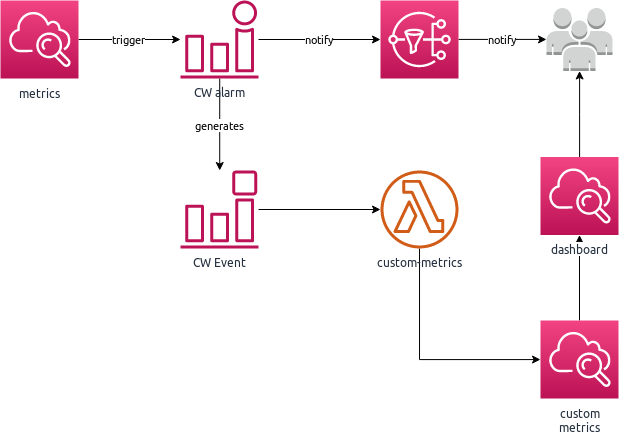
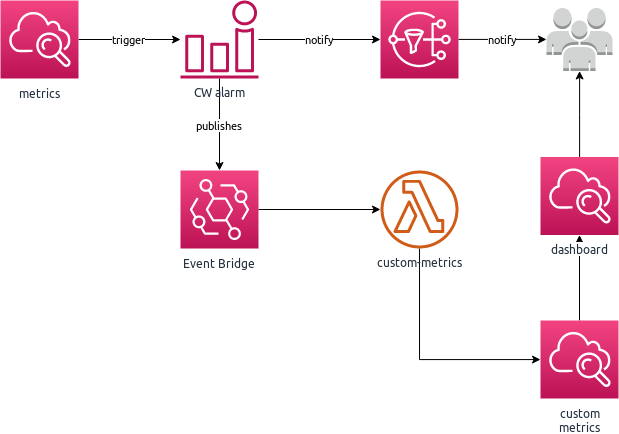
update documentation

Changed region(s): [[0.2763, 0.3295, 0.4297, 0.5691], [0.2763, 0.5991, 0.4297, 0.629], [0.3069, 0.2396, 0.399, 0.2995]]

diff --git a/README.md b/README.md
@@ -21,7 +21,7 @@ Another important metric is MTTI (Mean Time To Identification).  Depending on yo
 
 ![](./doc/img/failure-metric-architecture.png)
 
-This project uses notification actions from Cloud Watch Alarms, to trigger lambda functions to calculate, and publish, custom CloudWatch Metrics for the alarm.
+This project uses Cloud Watch Alarms, which sends notifications to Event Bridge, to trigger lambda functions to calculate, and publish, custom CloudWatch Metrics for the alarm.
 
 Metrics are generated under the namespace `Operations`, named for the metric, e.g. `MTTF`, `MTTR`.  A metric dimension `service` is generated based on the alarm name.
 
